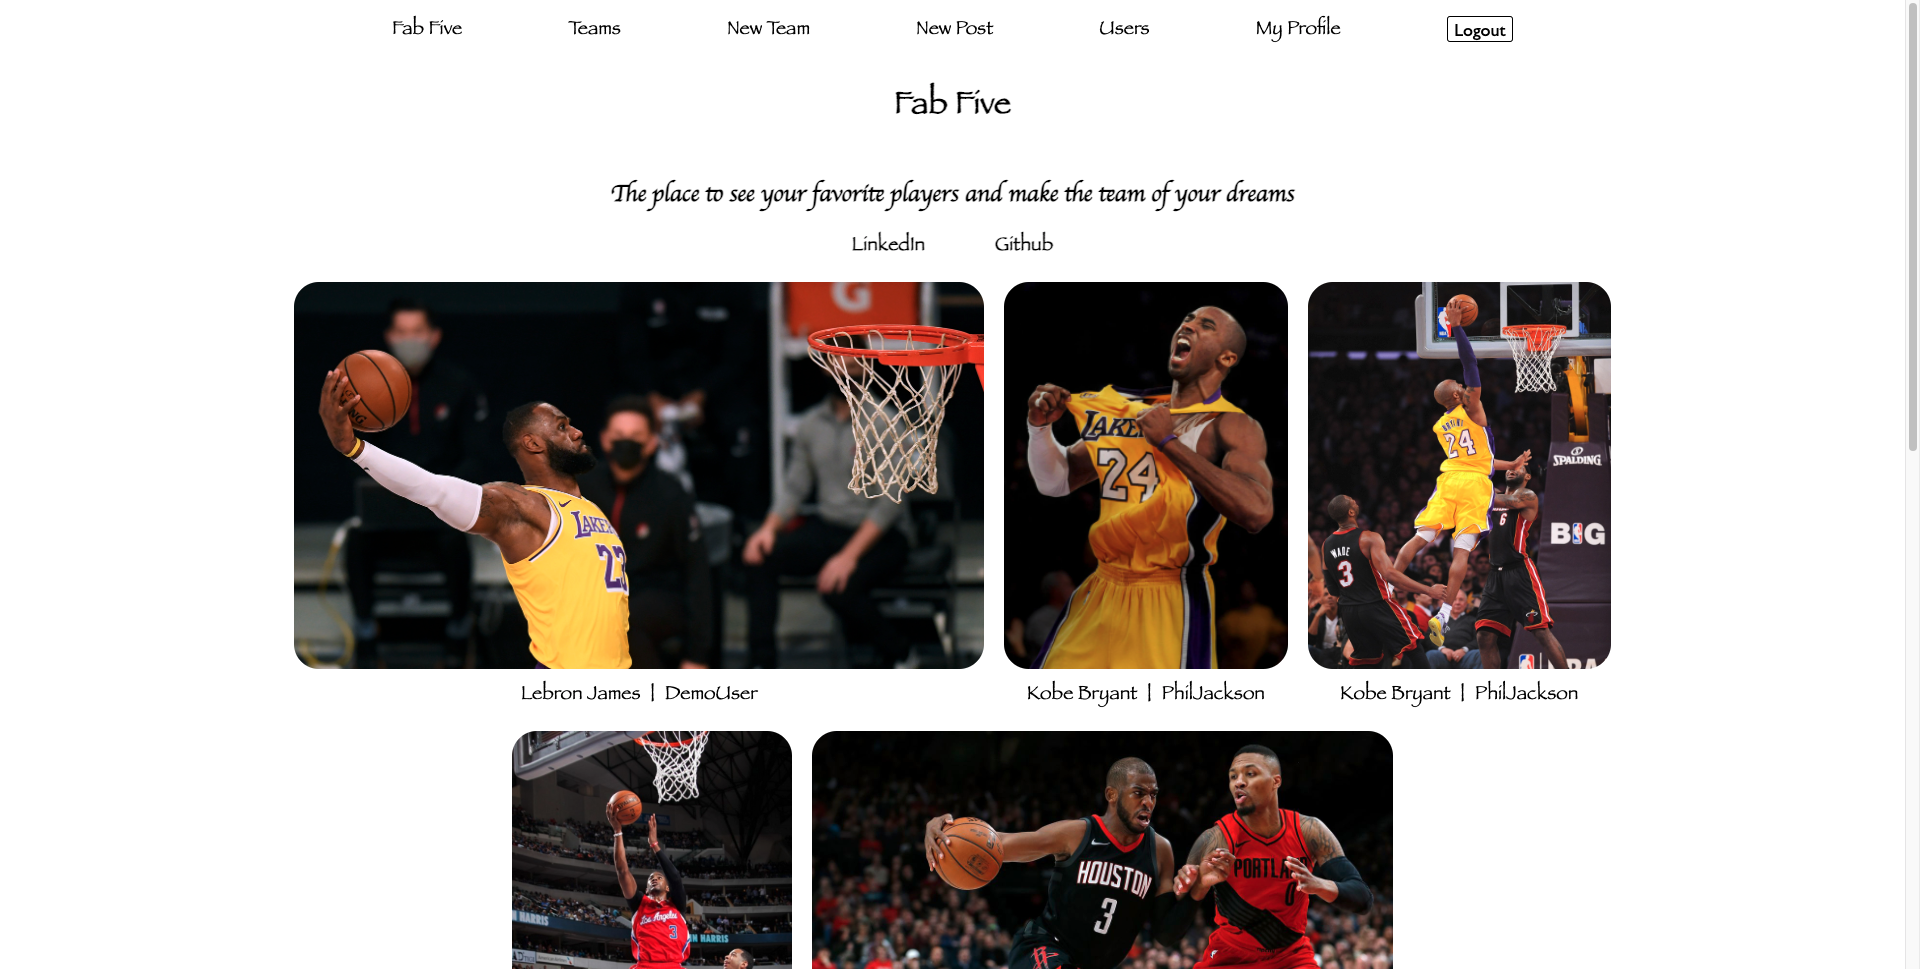
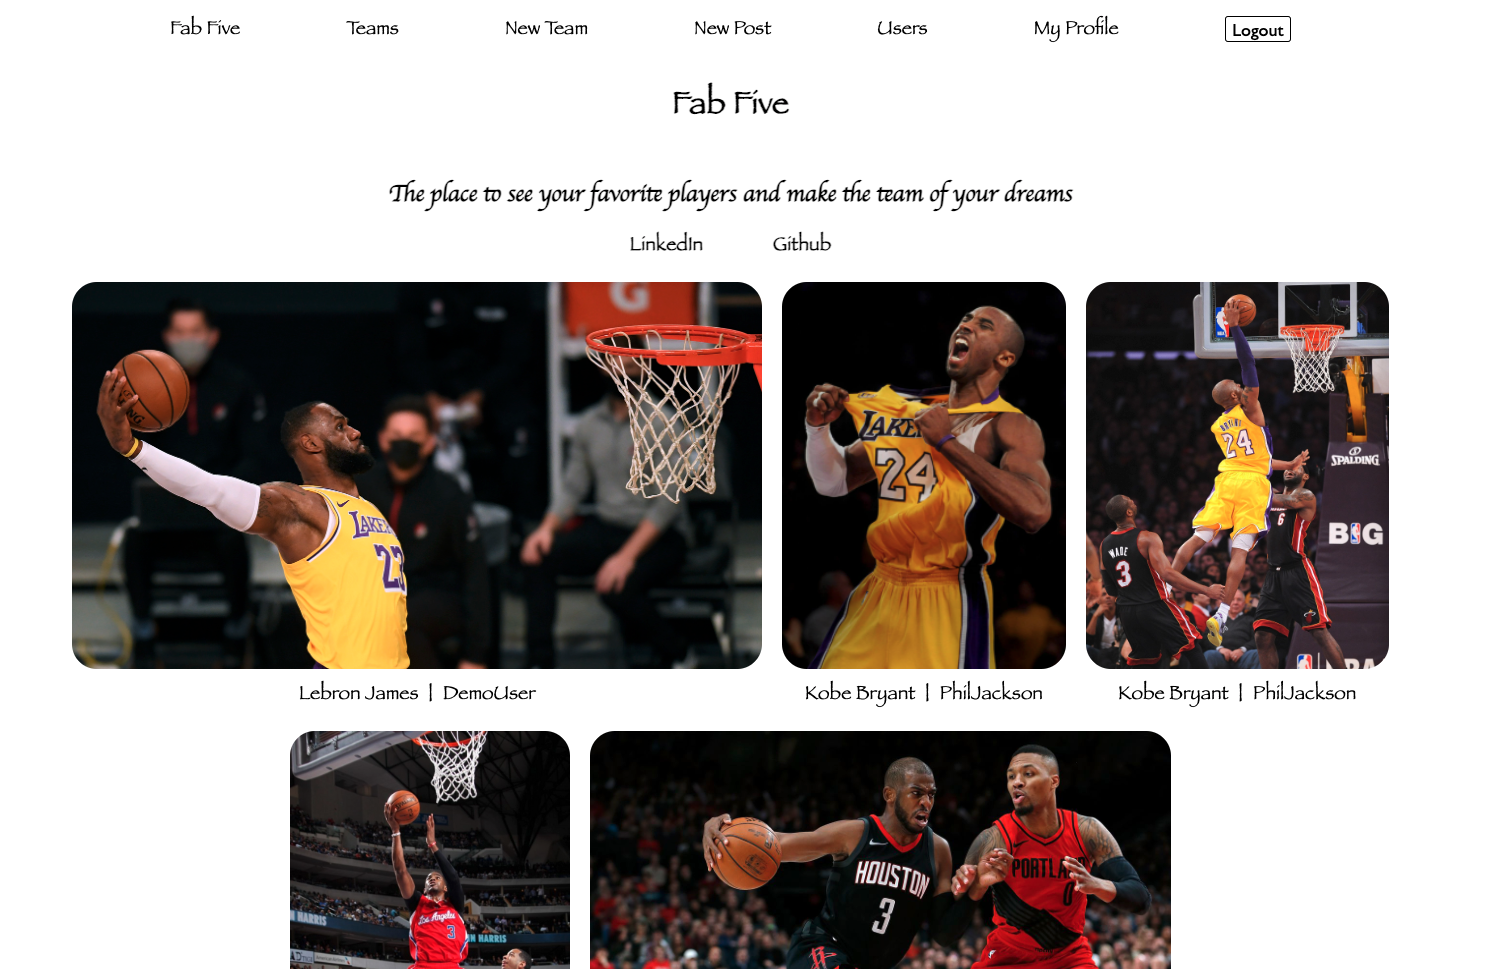
added fab five to projects

diff --git a/index.html b/index.html
@@ -61,17 +61,32 @@
 							<article id="projects">
 								<h2 class="major">Projects</h2>
 								<span class="image main"><img src="images/pic02.jpg" alt="" /></span>
-								<ul>
-									<li>
-										<p>Fab Five</p>
+								<div>
+									<div id="project-div">
+										<h2>Fab Five</h2>
 										<div id="project-links">
 											<a href="https://fab-five.herokuapp.com/" target="_blank" rel="noopener noreferrer">Live Site</a>
 											<a href="https://github.com/JacobHoldowsky/fab-five" target="_blank" rel="noopener noreferrer">Github Repo</a>
 										</div>
-										<img id="project-img" src="images/fab-five.png" alt="">
+										<div id="project-imgs">
+											<img id="project-img" src="images/fab-five.png" alt="">
+											<img id="project-img" src="images/fab-five-2.png" alt="">
+										</div>
 										<p id="project-disc">A site for NBA fans to build fantasy teams and post pictures of their favorite players.</p>
-									</li>
-								</ul>
+									</div>
+									<!-- <div id="project-div">
+										<h2>Fab Five</h2>
+										<div id="project-links">
+											<a href="https://fab-five.herokuapp.com/" target="_blank" rel="noopener noreferrer">Live Site</a>
+											<a href="https://github.com/JacobHoldowsky/fab-five" target="_blank" rel="noopener noreferrer">Github Repo</a>
+										</div>
+										<div id="project-imgs">
+											<img id="project-img" src="images/fab-five.png" alt="">
+											<img id="project-img" src="images/fab-five-2.png" alt="">
+										</div>
+										<p id="project-disc">A site for NBA fans to build fantasy teams and post pictures of their favorite players.</p>
+									</div> -->
+								</div>
 							</article>
 
 

diff --git a/assets/css/main.css b/assets/css/main.css
@@ -38,11 +38,36 @@ ol, ul {
 }
 
 #profile-pic {
-    height: 200px;
-    border-radius: 60px;
+    height: 235px;
+    border-radius: 150px;
     border: 1px solid white;
-    width: 120px;
+    width: 235px;
     z-index: 20;
+}
+
+#project-imgs {
+	display: flex;
+	flex-direction: column;
+	gap: 25px;
+}
+
+#project-img{
+	max-width: 35vw;
+	border-radius: 20px;
+}
+
+#project-links{
+	display: flex;
+	gap: 5vw;
+}
+
+#project-div{
+	list-style: none;
+	display: flex;
+	flex-direction: column;
+	justify-content: center;
+	align-items: center;
+	gap: 20px;
 }
 
 .logo{
